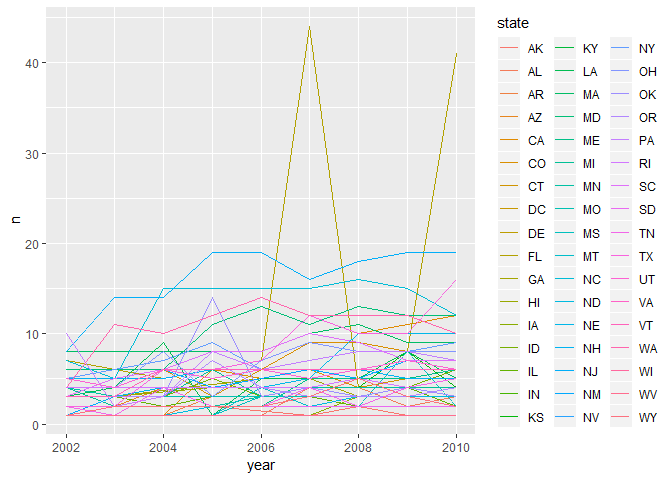
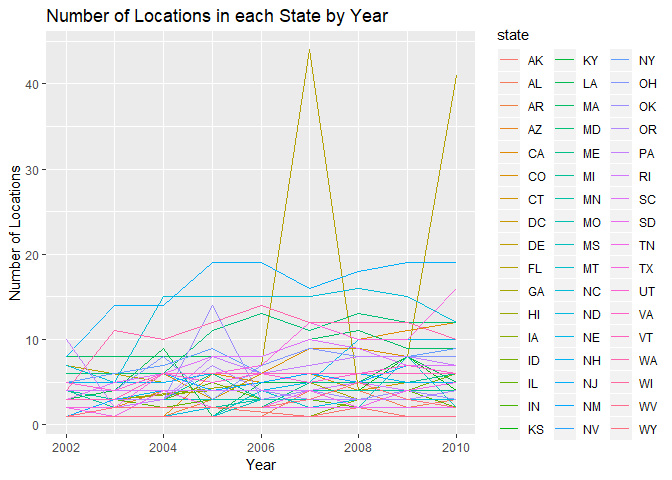
final commit

diff --git a/p8105_hw3_mp3653.md b/p8105_hw3_mp3653.md
@@ -23,6 +23,7 @@ library(tidyverse)
 ``` r
 library(knitr)
 library(patchwork)
+library(hexbin)
 ```
 
 Problem 1
@@ -39,7 +40,7 @@ brfss = p8105.datasets::brfss_smart2010 %>%
   rename(state = locationabbr, county = locationdesc)
 ```
 
-### Questions
+The number of states with 7 observations:
 
 ``` r
 brfss %>% 
@@ -58,6 +59,8 @@ brfss %>%
     ## 2 FL        7
     ## 3 NC        7
 
+There are 3 states with 7 observations; CT, FL, and NC.
+
 Create a spaghetti plot
 
 ``` r
@@ -66,7 +69,12 @@ brfss %>%
   group_by(year, state) %>% 
   summarize(n = n()) %>% 
   ggplot(aes(x = year, y = n, color = state)) +
-  geom_line()
+  geom_line() +
+  labs(
+    title = 'Number of Locations in each State by Year',
+    x = 'Year',
+    y = 'Number of Locations'
+  )
 ```
 
 ![](p8105_hw3_mp3653_files/figure-markdown_github/Make%20a%20spaghetti%20plot-1.png)
@@ -98,7 +106,13 @@ brfss %>%
   summarize(mean_values = mean(data_value/100)) %>% 
   ggplot(aes(x = year, y = mean_values, color = state)) +
   geom_line() +
-  facet_grid(~response)
+  facet_grid(~response) +
+  theme(axis.text.x = element_text(angle = 90, hjust = 1)) +
+  labs(
+    title = 'Mean Response Proportion for each State by Year',
+    x = 'Year',
+    y = 'Mean Proportion'
+  )
 ```
 
     ## Warning: Removed 1 rows containing missing values (geom_path).
@@ -115,7 +129,25 @@ instacart = p8105.datasets::instacart %>%
   janitor::clean_names()
 ```
 
-DESCRIBE DATA
+The `instacart` dataset is 1384617 rows with 15 variables and the dataset is in long format. If looking to distinguish the extent of what was ordered, order\_id and product\_id can provide the gross extent of how much is ordered and by whom.
+
+``` r
+instacart %>% 
+  distinct(order_id) %>% 
+  nrow()
+```
+
+    ## [1] 131209
+
+``` r
+instacart %>% 
+  distinct(user_id) %>% 
+  nrow()
+```
+
+    ## [1] 131209
+
+There are 131209 orders among 131209 users, indicating no users ordered more than once.
 
 Number of aisles
 
@@ -162,8 +194,14 @@ Plot of number of items ordered in each aisle
 instacart %>% 
   group_by(aisle, department) %>% 
   count() %>% 
-  ggplot(aes(x = aisle, y = n)) +
-  geom_point()
+  ggplot(aes(x = aisle, y = n, color = department)) +
+  geom_point() +
+  theme(axis.text.x = element_text(angle = 90, hjust = 1)) +
+  labs(
+    title = 'Number of Items Ordered from Each Aisle',
+    x = 'Aisle',
+    y = 'Number of Items Ordered'
+  )
 ```
 
 ![](p8105_hw3_mp3653_files/figure-markdown_github/Plot%20of%20number%20of%20items%20ordered%20in%20each%20aisle-1.png)
@@ -219,7 +257,35 @@ ny_noaa = p8105.datasets::ny_noaa %>%
          tmin = tmin/10)
 ```
 
-The `ny_noaa` dataset is 2595176 rows by 9 columns and is in long format. ....
+The `ny_noaa` dataset is 2595176 rows with 9 variables and is in long format. Key variables would be `id` which is specific for each station, as well as the date variables. These variables allow for the observation of weather trends overtime for each specific station. There is an extensive amount of data missing, which impedes our ability to properly observe trends. What we observe could be biased by the missing data.
+
+Most commonly observed snowfall values
+
+``` r
+ny_noaa %>% 
+  select(snow) %>% 
+  group_by(snow) %>% 
+  count() %>% 
+  arrange(desc(n))
+```
+
+    ## # A tibble: 282 x 2
+    ## # Groups:   snow [282]
+    ##     snow       n
+    ##    <int>   <int>
+    ##  1     0 2008508
+    ##  2    NA  381221
+    ##  3    25   31022
+    ##  4    13   23095
+    ##  5    51   18274
+    ##  6    76   10173
+    ##  7     8    9962
+    ##  8     5    9748
+    ##  9    38    9197
+    ## 10     3    8790
+    ## # ... with 272 more rows
+
+The most common observation is `0mm` of snowfall. This is odd in that it often snows every year in the state of NY. This observation may be due to measurement error in that many stations simply did not record or could not record snowfall.
 
 Plot of average max temp in the months of January and July for each station across years
 
@@ -231,9 +297,43 @@ ny_noaa %>%
   ggplot(aes(x = year, y = mean_tmax)) +
   geom_point() +
   facet_grid('month') +
-  theme(legend.position = 'none')
+  theme(legend.position = 'none', axis.text.x = element_text(angle = 90, hjust = 1)) +
+  labs(
+    title = 'Average Max Temperature (C) in January and July for each Station by Year',
+    x = 'Year',
+    y = 'Max Temperature (C)'
+  )
 ```
 
     ## Warning: Removed 7058 rows containing missing values (geom_point).
 
 ![](p8105_hw3_mp3653_files/figure-markdown_github/plot%20of%20max%20temps-1.png)
+
+Two panel plot of of tmax vs tmin and distribution of snowfall
+
+``` r
+t_plot = ny_noaa %>% 
+  ggplot(aes(x = tmax, y = tmin)) +
+  geom_hex() +
+  labs(
+    title = 'Max Temperature vs. Min Temperature',
+    x = 'Max Temperature (C)',
+    y = 'Min Temperature (C)'
+  )
+
+snow_plot = ny_noaa %>% 
+  filter(snow > 0 & snow < 100) %>% 
+  ggplot(aes(x = snow, fill = year)) +
+  geom_density(alpha = .4, adjust = .5, color = 'blue') +
+  labs(
+    title = 'Distribution of Snowfall by Year',
+    x = 'Snowfall (mm)',
+    y = 'Density'
+  )
+
+(t_plot + snow_plot)
+```
+
+    ## Warning: Removed 1136276 rows containing non-finite values (stat_binhex).
+
+![](p8105_hw3_mp3653_files/figure-markdown_github/unnamed-chunk-6-1.png)
